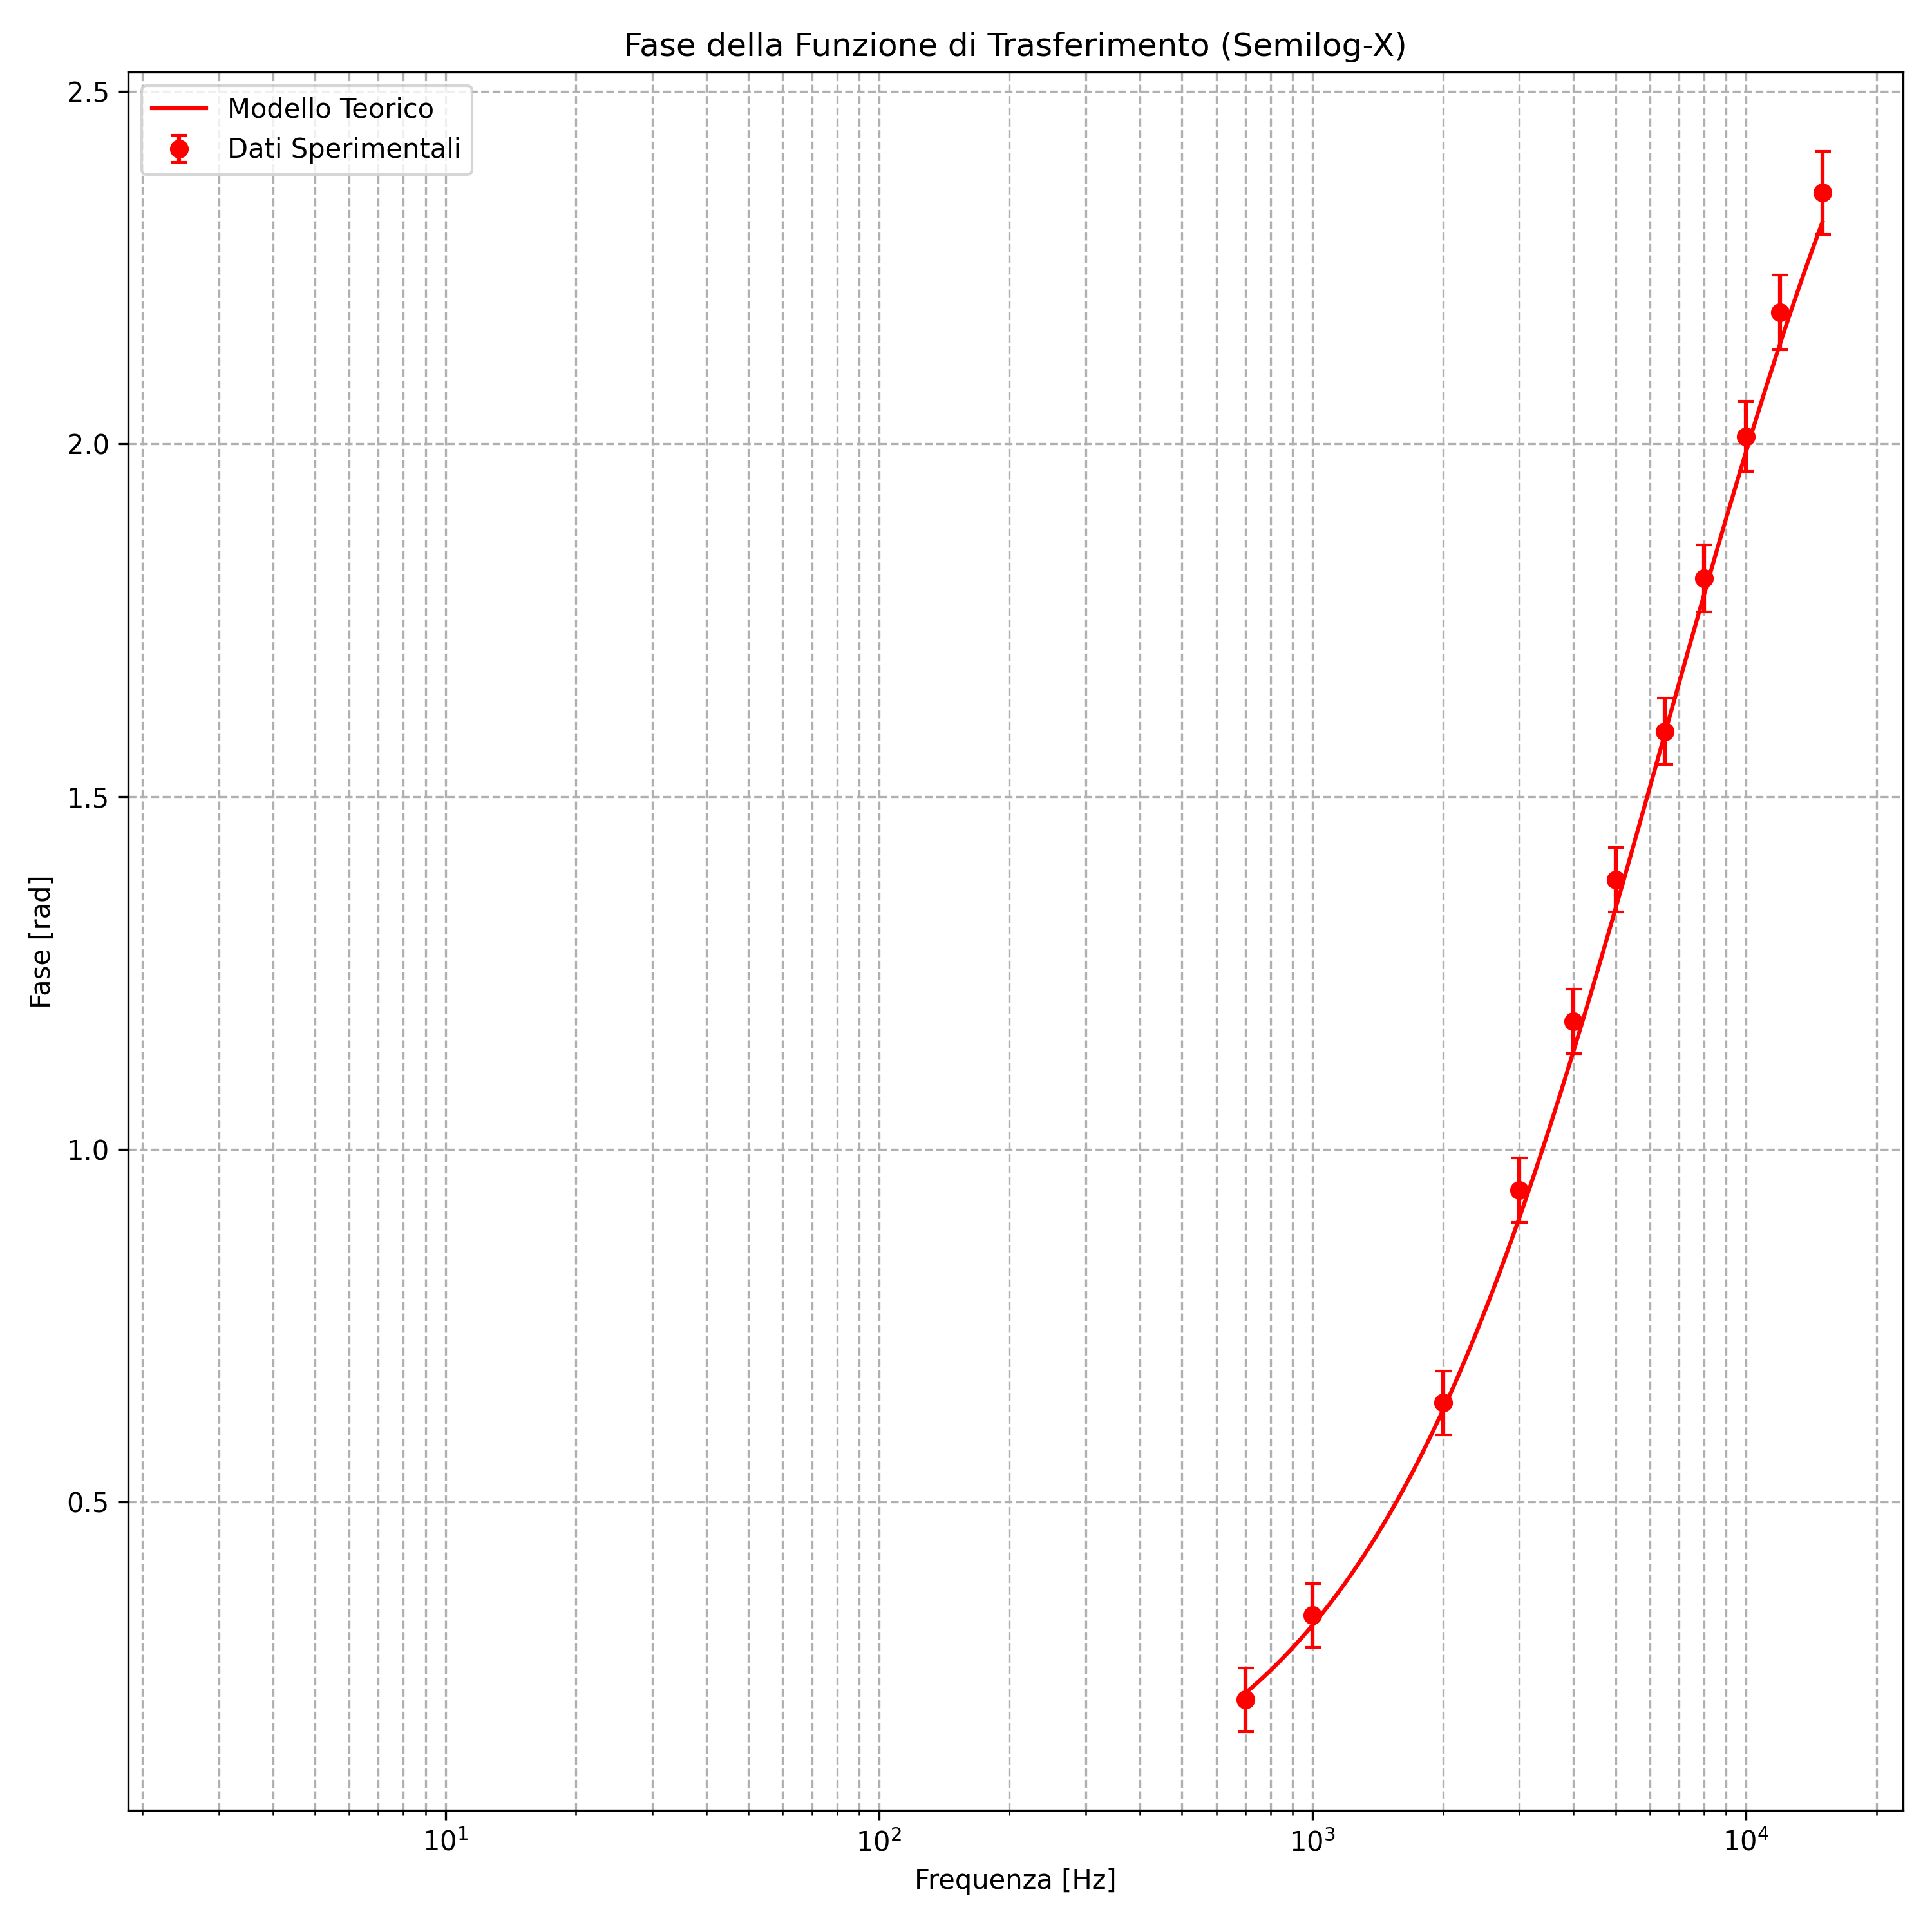
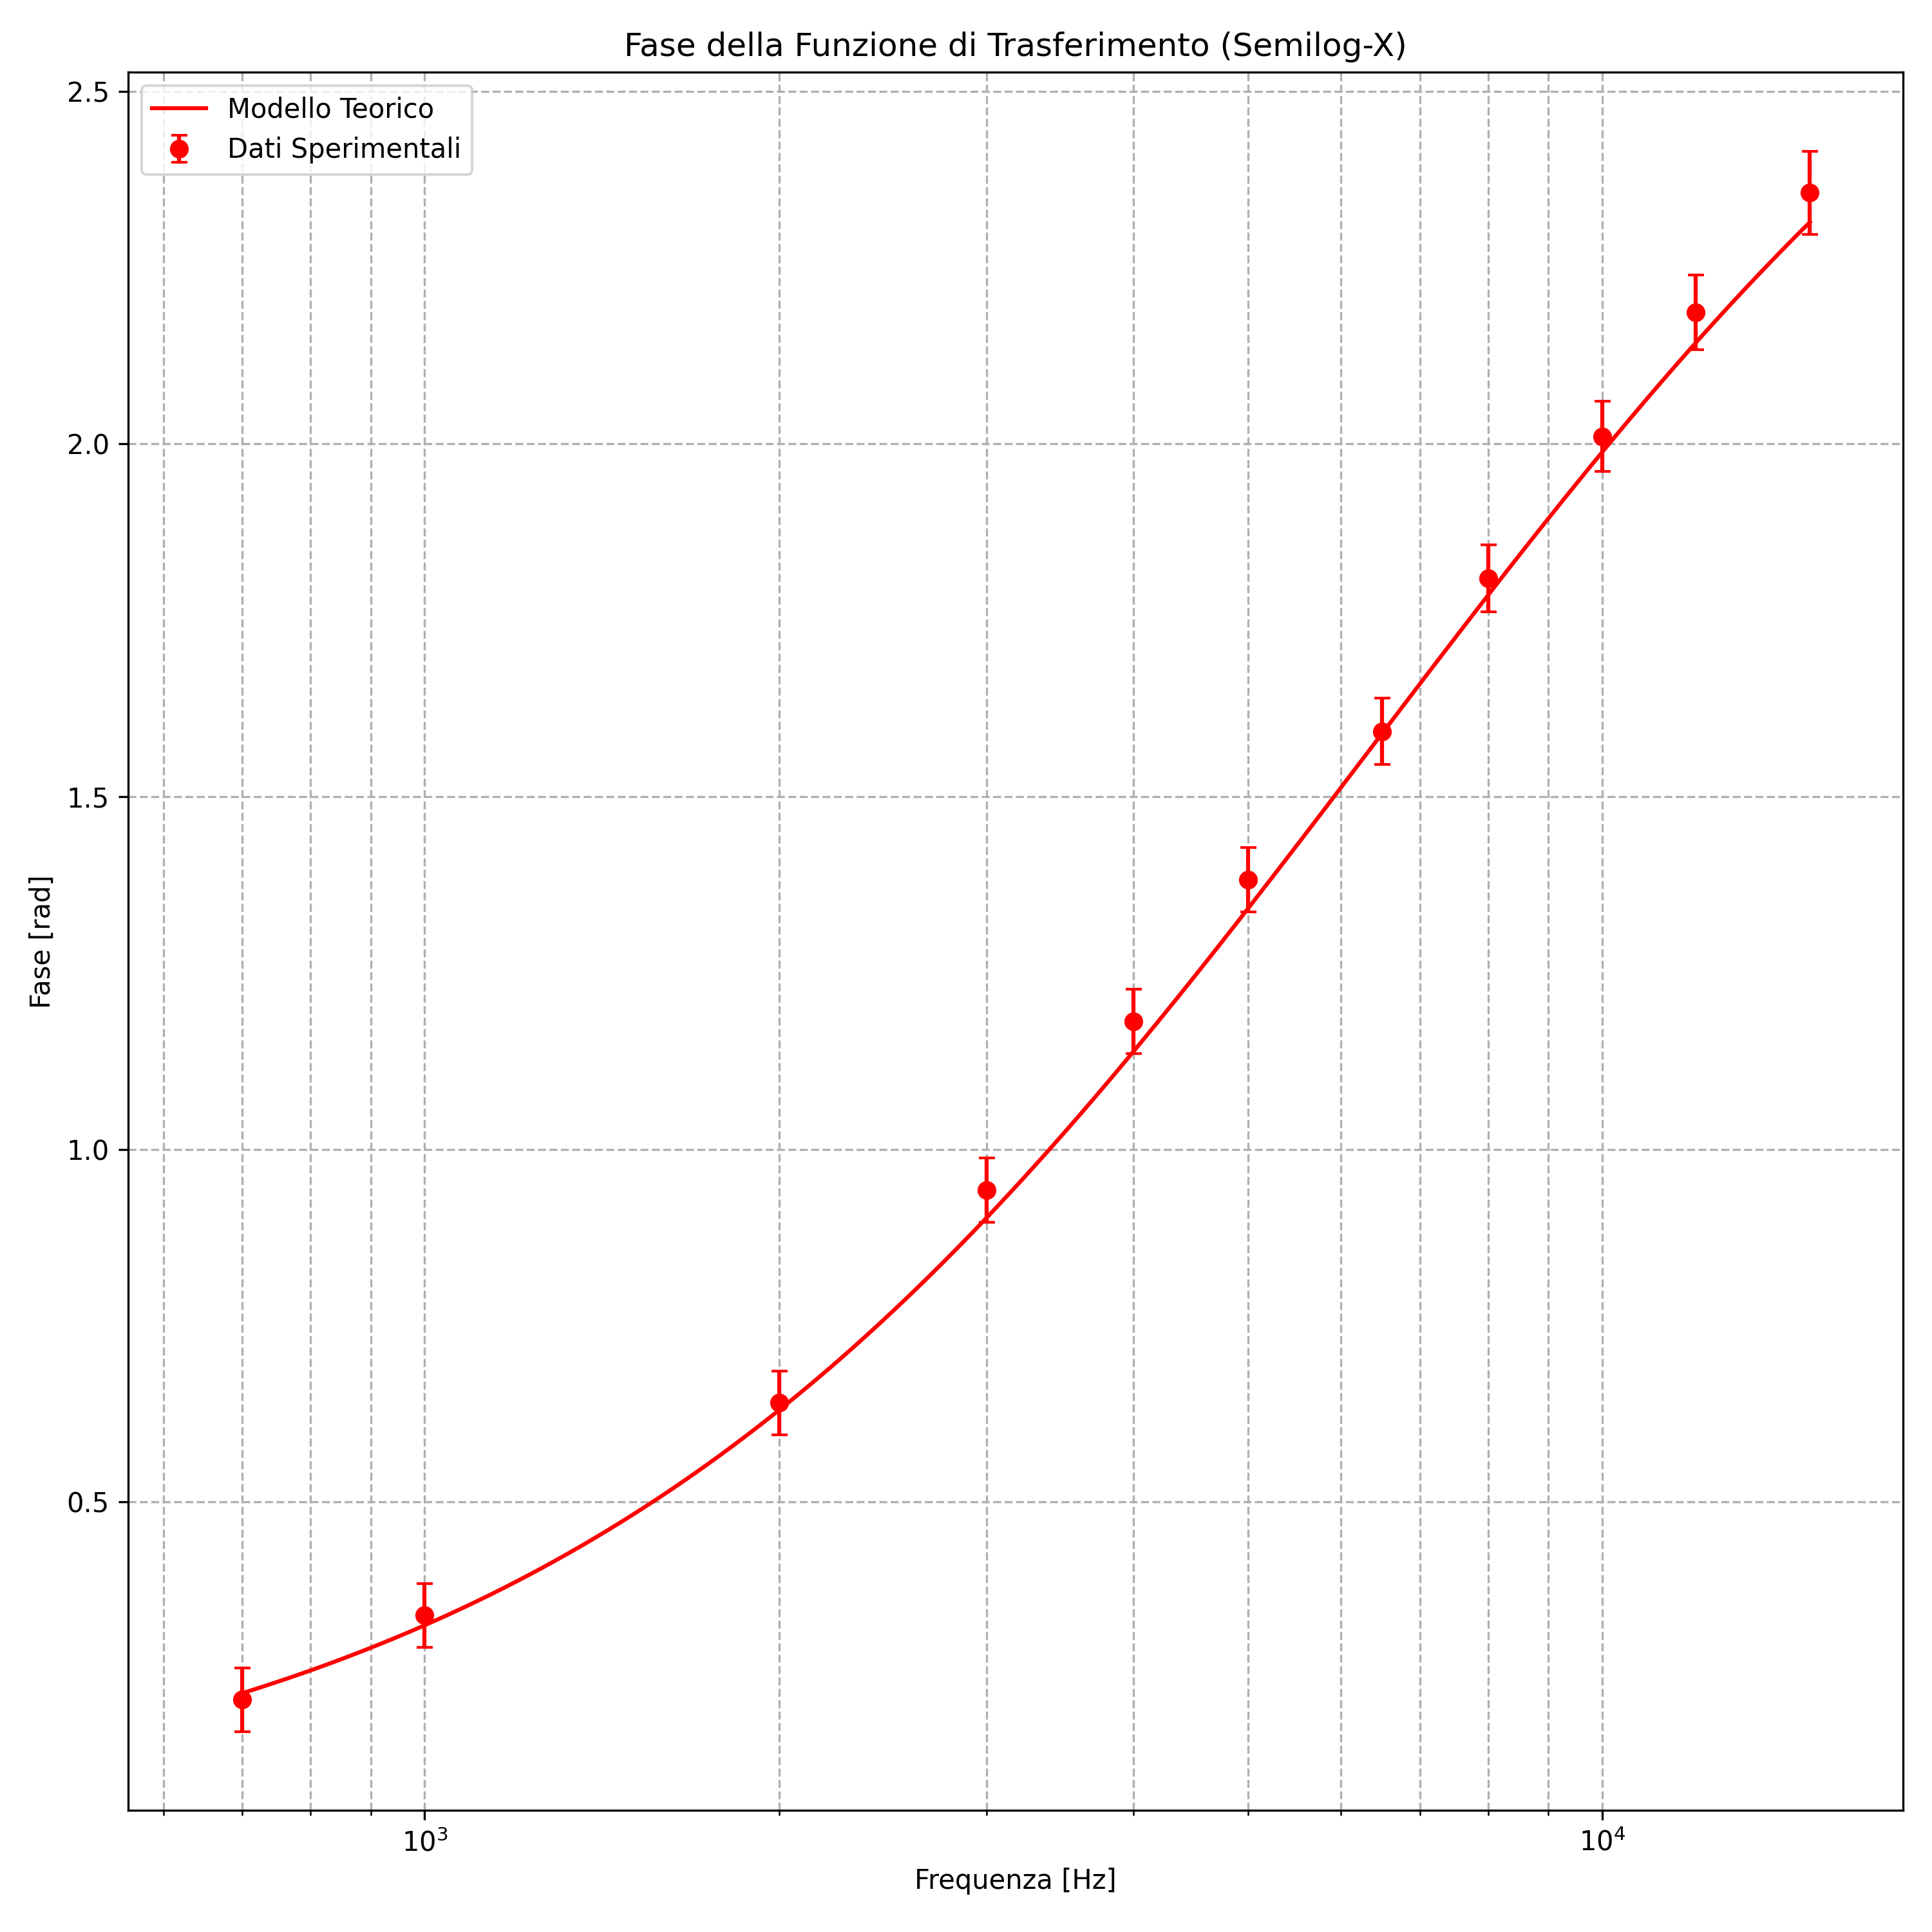
fine di L

diff --git a/HC_RLC.py b/HC_RLC.py
@@ -25,8 +25,6 @@ def HC_rlc(f,L,C):
     cond = 1/(omega*C) #cariavile del condensatore (è sempre uguale) 
     return cond/np.sqrt((R_valore+R_L)**2+(omega*L-cond)**2)
 
-
-
 def passa_basso_fase_R(f, L, C):
     omega = 2 * np.pi * f
     # Fase per circuito RLC con uscita ai capi di R
@@ -68,7 +66,6 @@ sigma_t_a_noise = sigma_V / (2 * np.pi * f_dati * Va)
 sigma_t_b_noise = sigma_V / (2 * np.pi * f_dati * Vb)
 
 # 2. Risoluzione temporale intrinseca dell'oscilloscopio (Incertezza di lettura)
-# Valore stimato di circa 400 ns (adeguato se i punti ad alta frequenza deviano di ~0.1 rad)
 sigma_t_str = 0.005 / f_dati  
 
 # 3. Composizione in quadratura degli errori per singolo canali
@@ -109,10 +106,10 @@ p_value_fase = chi2.sf(chi2_fase, dof_fase)
 print("\n--- STATISTICHE DELLA FASE (CONFRONTO MODELLO) ---")
 print(f"Chi2 Fase: {chi2_fase:.2f} / {dof_fase} DoF")
 print(f"p-value Fase: {p_value_fase:.4e}")
+
 # --- GRAFICI ---
 f_fit = np.logspace(np.log10(min(f_dati)), np.log10(max(f_dati)), 6000)
 
-#f_fit = np.linspace(30,max(f_dati)+1000,700)
 fig, axs = plt.subplots(1, 1, figsize= (10,10))
 
 # --- [0, 0] Modulo Scala Lineare ---
@@ -135,6 +132,9 @@ axs1.errorbar(f_dati, H, yerr=err_H_HP, fmt='o', color='blue', capsize=3, label=
 axs1.set_title("Modulo del Rapporto di Trasferimento (Log-Log)")
 axs1.set_xlabel("Frequenza [Hz]")
 axs1.set_ylabel("|H(f)|")
+# --- FIXED: Regolazione dinamica asse X logaritmico ---
+axs1.set_xlim(min(f_dati) * 0.8, max(f_dati) * 1.2)
+# -----------------------------------------------------
 axs1.grid(True, which="both", ls="--")
 axs1.legend()
 
@@ -154,7 +154,6 @@ ays.legend()
 plt.tight_layout()
 plt.savefig('Analisi_Completa_RLC_C_fase_lineare.png', dpi=300)
 
-
 fig, ays1 = plt.subplots(1, 1, figsize= (10,10))
 
 # --- [1, 1] Fase Scala Semilogaritmica (Asse X Log) ---
@@ -163,6 +162,9 @@ ays1.errorbar(f_dati, fase_dati, yerr=err_fase, fmt='o', color='red', capsize=3,
 ays1.set_title("Fase della Funzione di Trasferimento (Semilog-X)")
 ays1.set_xlabel("Frequenza [Hz]")
 ays1.set_ylabel("Fase [rad]")
+# --- FIXED: Regolazione dinamica asse X logaritmico ---
+ays1.set_xlim(min(f_dati) * 0.8, max(f_dati) * 1.2)
+# -----------------------------------------------------
 ays1.grid(True, which="both", ls="--")
 ays1.legend()
 